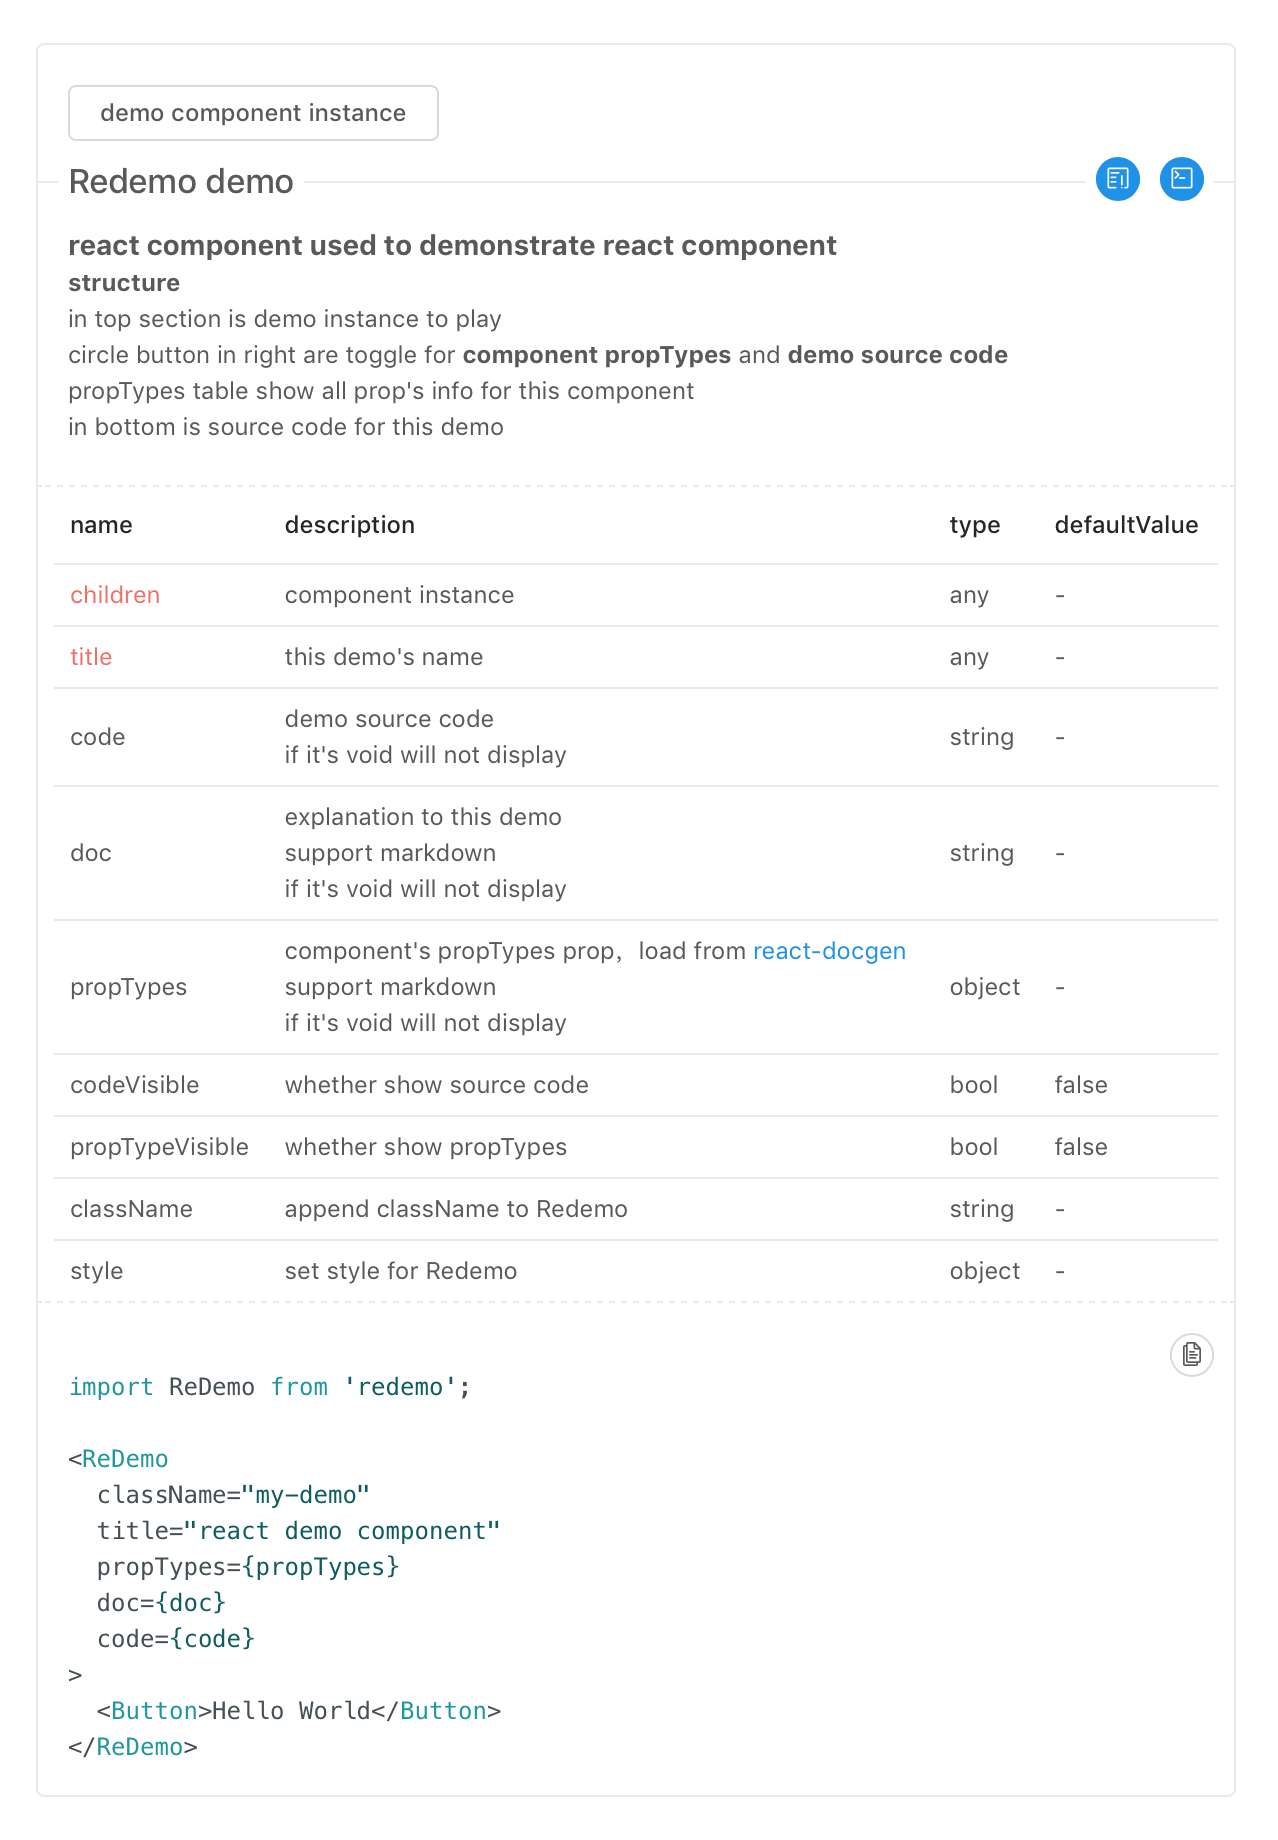
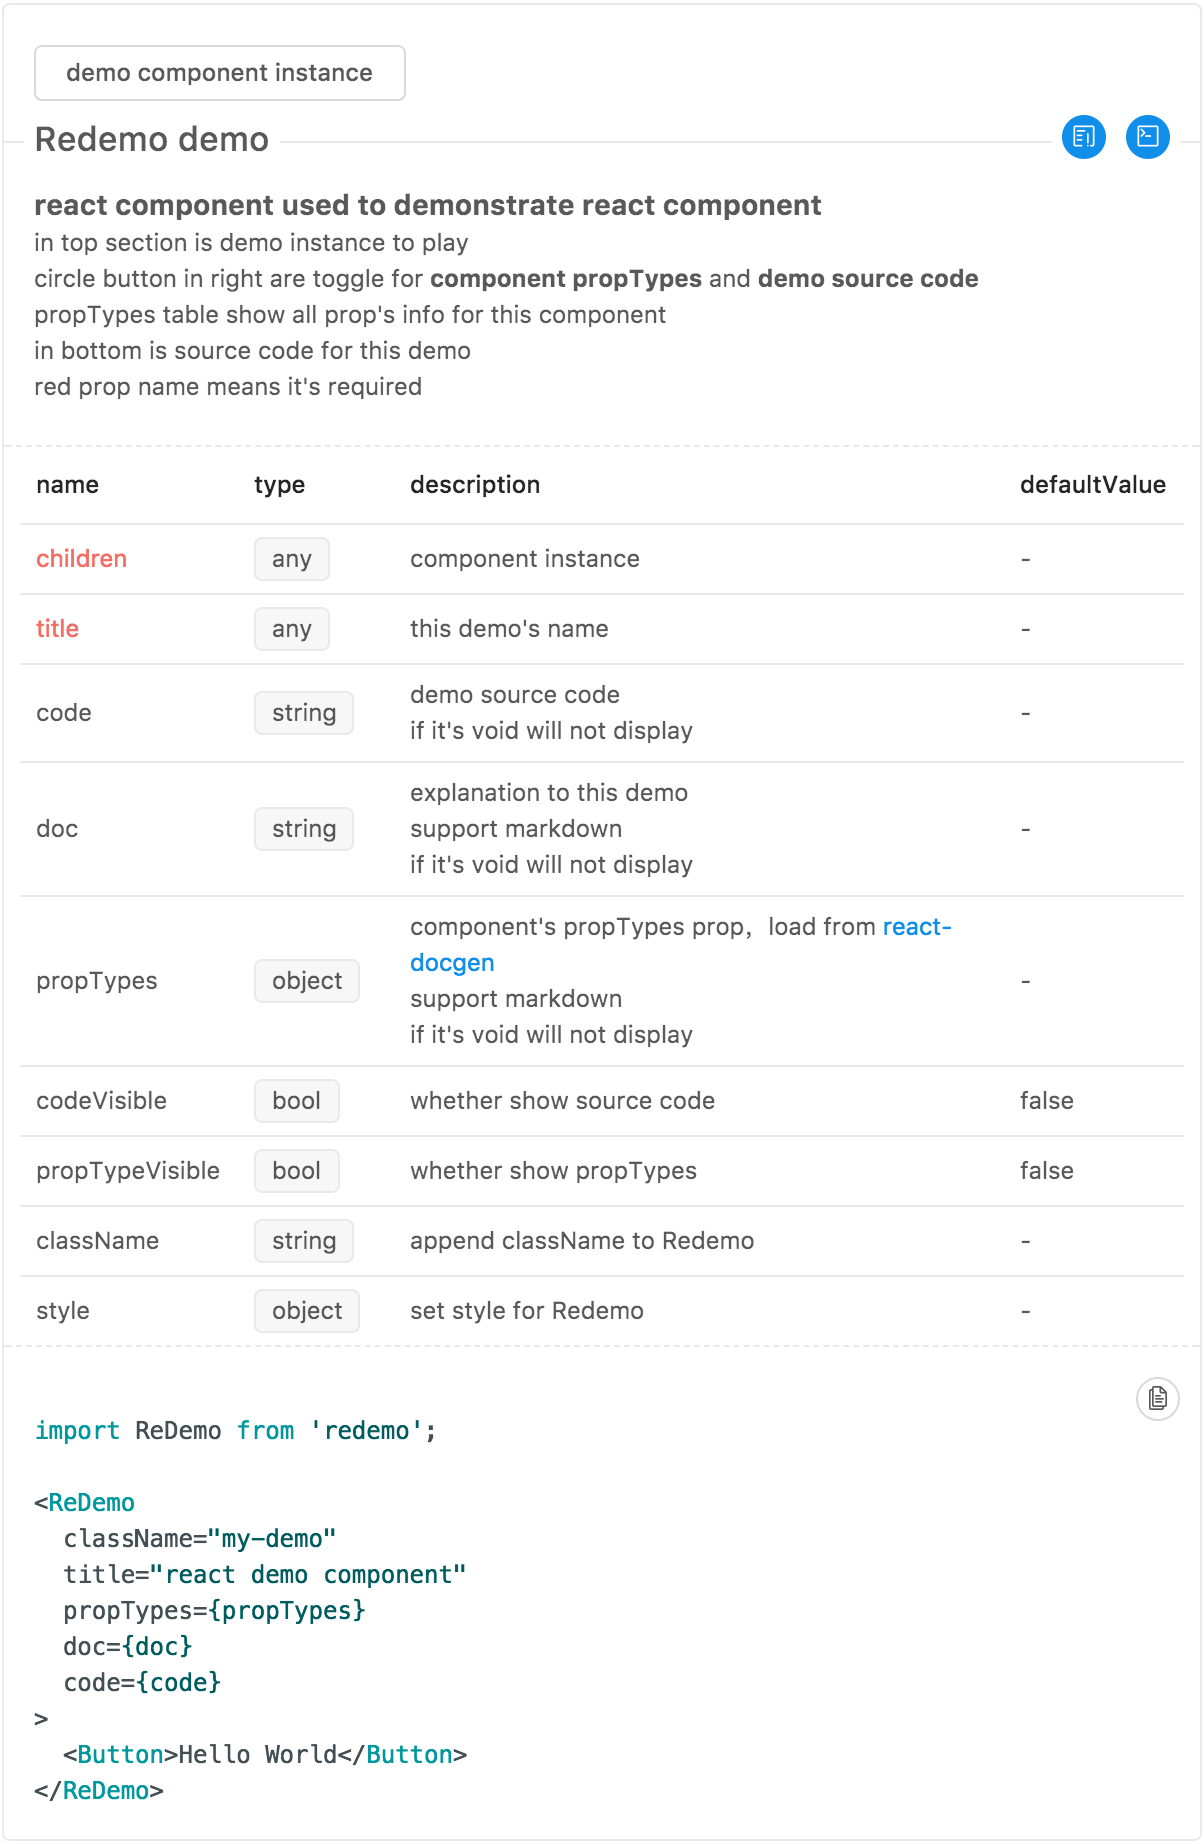
pub: 0.0.4

diff --git a/src/index.js b/src/index.js
@@ -9,78 +9,11 @@ import 'antd/lib/message/style/index.css';
 import Button from 'antd/lib/button';
 import Table from 'antd/lib/table';
 import 'antd/lib/table/style/index.css';
+import Tag from 'antd/lib/tag';
+import 'antd/lib/tag/style/index.css';
+import Tooltip from 'antd/lib/tooltip';
+import 'antd/lib/tooltip/style/index.css';
 import './index.scss';
-
-/**
- * Copies a string to the clipboard. Must be called from within an
- * event handler such as click. May return false if it failed, but
- * this is not always possible. Browser support for Chrome 43+,
- * Firefox 42+, Safari 10+, Edge and IE 10+.
- * IE: The clipboard feature may be disabled by an administrator. By
- * default a prompt is shown the first time the clipboard is
- * used (per session).
- * @param text
- * @returns {boolean}
- */
-function copyToClipboard(text) {
-  if (window.clipboardData && window.clipboardData.setData) {
-    // IE specific code path to prevent textarea being shown while dialog is visible.
-    return clipboardData.setData('Text', text);
-
-  } else { //noinspection JSUnresolvedVariable,JSUnresolvedFunction
-    if (document.queryCommandSupported && document.queryCommandSupported('copy')) {
-      let textarea = document.createElement('textarea');
-      textarea.textContent = text;
-      textarea.style.position = 'fixed';  // Prevent scrolling to bottom of page in MS Edge.
-      document.body.appendChild(textarea);
-      textarea.select();
-      try {
-        return document.execCommand('copy');  // Security exception may be thrown by some browsers.
-      } catch (err) {
-        throw err;
-      } finally {
-        document.body.removeChild(textarea);
-      }
-    }
-  }
-}
-
-/**
- * If you want to select all the content of an element (contenteditable or not) in Chrome, here's how.
- * This will also work in Firefox, Safari 3+, Opera 9+ (possibly earlier versions too) and IE 9.
- * You can also create selections down to the character level.
- * The APIs you need are DOM Range (current spec is DOM Level 2, see also MDN) and Selection,
- * which is being specified as part of a new Range spec (MDN docs).
- * @param el
- * http://stackoverflow.com/questions/6139107/programmatically-select-text-in-a-contenteditable-html-element
- */
-function selectElementContents(el) {
-  let range = document.createRange();
-  range.selectNodeContents(el);
-  let sel = window.getSelection();
-  sel.removeAllRanges();
-  sel.addRange(range);
-}
-
-const PropTypesTableColumns = [
-  {
-    title: 'name',
-    dataIndex: 'name',
-    key: 'name',
-  }, {
-    title: 'description',
-    dataIndex: 'description',
-    key: 'description',
-  }, {
-    title: 'type',
-    dataIndex: 'type',
-    key: 'type',
-  }, {
-    title: 'defaultValue',
-    dataIndex: 'defaultValue',
-    key: 'defaultValue',
-  }
-];
 
 /**
  * react component used to demonstrate react component
@@ -136,6 +69,61 @@ export default class Redemo extends Component {
     propTypeVisible: false,
   }
 
+  static propTypesTableColumns = [
+    {
+      title: 'name',
+      key: 'name',
+      render: (_, record) => {
+        const { propName, required } = record;
+        return (
+          <span className={classnames({ 're-demo-proptypes-required': required })}
+                title={required ? 'required prop' : null}>{propName}</span>
+        )
+      }
+    }, {
+      title: 'type',
+      key: 'type',
+      render: (_, record) => {
+        const { type } = record;
+        return (
+          <PropTypeValueTag type={type}/>
+        )
+      }
+    }, {
+      title: 'description',
+      dataIndex: 'description',
+      key: 'description',
+      render: (_, record) => {
+        const { description } = record;
+        if (typeof description === 'string' && description.length > 0) {
+          return <Markdown>{description}</Markdown>;
+        }
+        return '-';
+      }
+    }, {
+      title: 'defaultValue',
+      dataIndex: 'defaultValue',
+      key: 'defaultValue',
+      render: (_, record) => {
+        const { defaultValue, type } = record;
+        let { value } = defaultValue || {};
+        if (value === undefined) {
+          return '-';
+        }
+        if (['object', 'shape'].indexOf(type.name) >= 0) {
+          return (
+            <Tooltip placement="right" overlayClassName="redemo-prop-type-tag-tooltip" title={
+              <ObjectView object={value}/>
+            }>
+              <Tag color="blue">object</Tag>
+            </Tooltip>
+          )
+        }
+        return value;
+      }
+    }
+  ];
+
   state = {
     /**
      * whether show source code
@@ -184,28 +172,16 @@ export default class Redemo extends Component {
     const { propTypes } = this.props;
     const { propTypeVisible } = this.state;
     if (propTypes && propTypeVisible) {
-      const dataSource = [];
-      Object.keys(propTypes).forEach(propName => {
-        const propInfo = propTypes[propName] || {};
-        const required = propInfo.required || false;
-        const one = {
-          key: propName,
-          name: <span className={classnames({
-            're-demo-proptypes-required': required
-          })}>{propName}</span>,
-          description: <Markdown>{propInfo.description || '-'}</Markdown>,
-          type: (propInfo.type || {}).name || '-',
-          defaultValue: (propInfo.defaultValue || {}).value || '-',
-        }
-        dataSource.push(one);
-      })
+      const dataSource = Object.keys(propTypes).map(propName => Object.assign({ propName }, propTypes[propName]));
       return (
         <Table
+          rowKey="propName"
           className="re-demo-proptypes"
-          columns={PropTypesTableColumns}
+          columns={Redemo.propTypesTableColumns}
           dataSource={dataSource}
           pagination={false}
           size="small"
+          locale={{}}
         />
       )
     }
@@ -266,4 +242,103 @@ export default class Redemo extends Component {
       </div>
     )
   }
+}
+
+class PropTypeValueTag extends Component {
+
+  static propTypes = {
+    type: PropTypes.object
+  }
+
+  static defaultProps = {
+    type: {}
+  }
+
+  render() {
+    const { type } = this.props;
+    const { name, value } = type;
+    if (value !== undefined) {
+      return (
+        <Tooltip placement="right" overlayClassName="redemo-prop-type-tag-tooltip" title={
+          <ObjectView object={value}/>
+        }>
+          <Tag color="blue">{name}</Tag>
+        </Tooltip>
+      )
+    } else {
+      return <Tag style={{ cursor: 'default' }}>{name}</Tag>
+    }
+  }
+}
+
+class ObjectView extends Component {
+  static propTypes = {
+    object: PropTypes.any
+  }
+
+  static defaultProps = {
+    object: {}
+  }
+
+  render() {
+    const { object } = this.props;
+    let code = object;
+    if (typeof object === 'object') {
+      code = JSON.stringify(code, null, 4);
+    }
+    return (
+      <Highlight>{code}</Highlight>
+    )
+  }
+}
+
+/**
+ * Copies a string to the clipboard. Must be called from within an
+ * event handler such as click. May return false if it failed, but
+ * this is not always possible. Browser support for Chrome 43+,
+ * Firefox 42+, Safari 10+, Edge and IE 10+.
+ * IE: The clipboard feature may be disabled by an administrator. By
+ * default a prompt is shown the first time the clipboard is
+ * used (per session).
+ * @param text
+ * @returns {boolean}
+ */
+function copyToClipboard(text) {
+  if (window.clipboardData && window.clipboardData.setData) {
+    // IE specific code path to prevent textarea being shown while dialog is visible.
+    return clipboardData.setData('Text', text);
+
+  } else { //noinspection JSUnresolvedVariable,JSUnresolvedFunction
+    if (document.queryCommandSupported && document.queryCommandSupported('copy')) {
+      let textarea = document.createElement('textarea');
+      textarea.textContent = text;
+      textarea.style.position = 'fixed';  // Prevent scrolling to bottom of page in MS Edge.
+      document.body.appendChild(textarea);
+      textarea.select();
+      try {
+        return document.execCommand('copy');  // Security exception may be thrown by some browsers.
+      } catch (err) {
+        throw err;
+      } finally {
+        document.body.removeChild(textarea);
+      }
+    }
+  }
+}
+
+/**
+ * If you want to select all the content of an element (contenteditable or not) in Chrome, here's how.
+ * This will also work in Firefox, Safari 3+, Opera 9+ (possibly earlier versions too) and IE 9.
+ * You can also create selections down to the character level.
+ * The APIs you need are DOM Range (current spec is DOM Level 2, see also MDN) and Selection,
+ * which is being specified as part of a new Range spec (MDN docs).
+ * @param el
+ * http://stackoverflow.com/questions/6139107/programmatically-select-text-in-a-contenteditable-html-element
+ */
+function selectElementContents(el) {
+  let range = document.createRange();
+  range.selectNodeContents(el);
+  let sel = window.getSelection();
+  sel.removeAllRanges();
+  sel.addRange(range);
 }

diff --git a/src/doc/index.js b/src/doc/index.js
@@ -9,11 +9,11 @@ const propTypes = docgen[0]['props'];
 
 const doc = `
 ### react component used to demonstrate react component
-#### structure
 - in top section is demo instance to play 
 - circle button in right are toggle for **component propTypes** and **demo source code**
 - propTypes table show all prop's info for this component
 - in bottom is source code for this demo
+- red prop name means it's required
 `
 
 const code = `

diff --git a/src/index.scss b/src/index.scss
@@ -83,3 +83,15 @@ $paddingTB: 20px;
   }
 
 }
+
+.redemo-prop-type-tag-tooltip {
+
+  .ant-tooltip-inner {
+    background-color: $colorBg;
+  }
+
+  .ant-tooltip-arrow {
+    border-right-color: $colorBg;
+  }
+
+}

diff --git a/README.md b/README.md
@@ -18,11 +18,11 @@ Redemo is used to help write demo for react component in a easy way, is't pretty
 - propTypes: auto list react component `propTypes` document form comment in your component source instead of write by yourself
 
 ## install
-use it from npm
+use it from npm in webpack
 ```bash
 npm i redemo
 ```
-load it in browser direct
+Or load it in browser direct
 ```html
 <link rel="stylesheet" href="./node_modules/redemo/dist/redemo.css">
 <script src="./node_modules/redemo/dist/redemo.js"></script>
